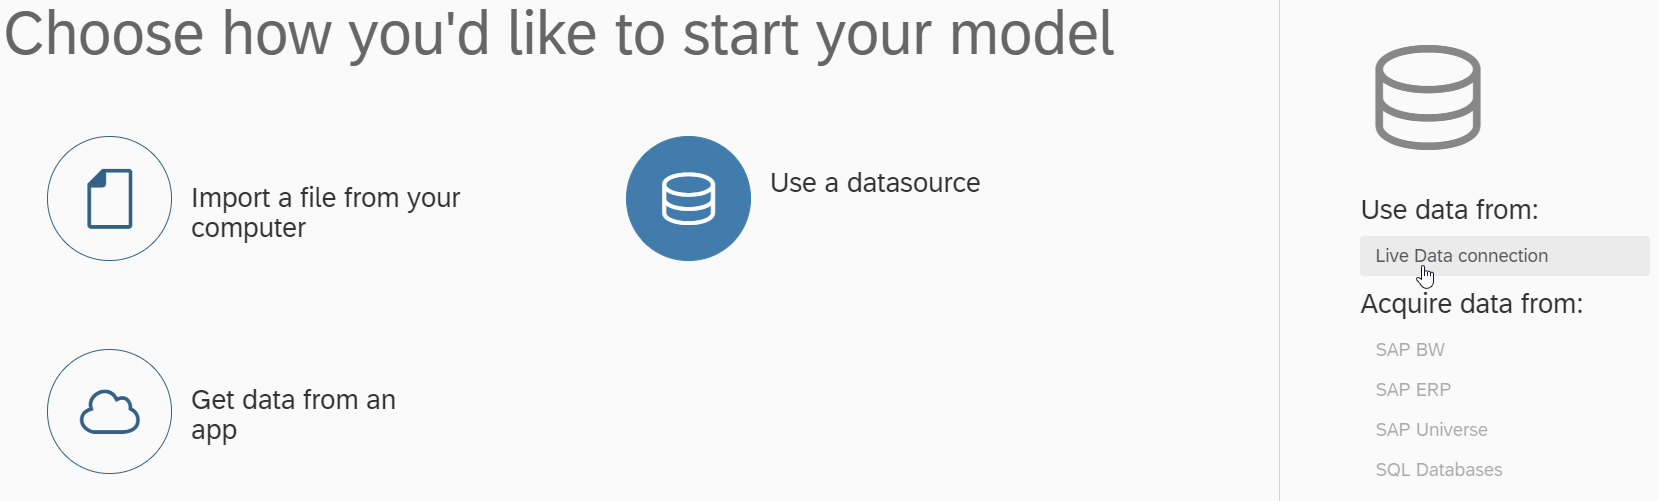
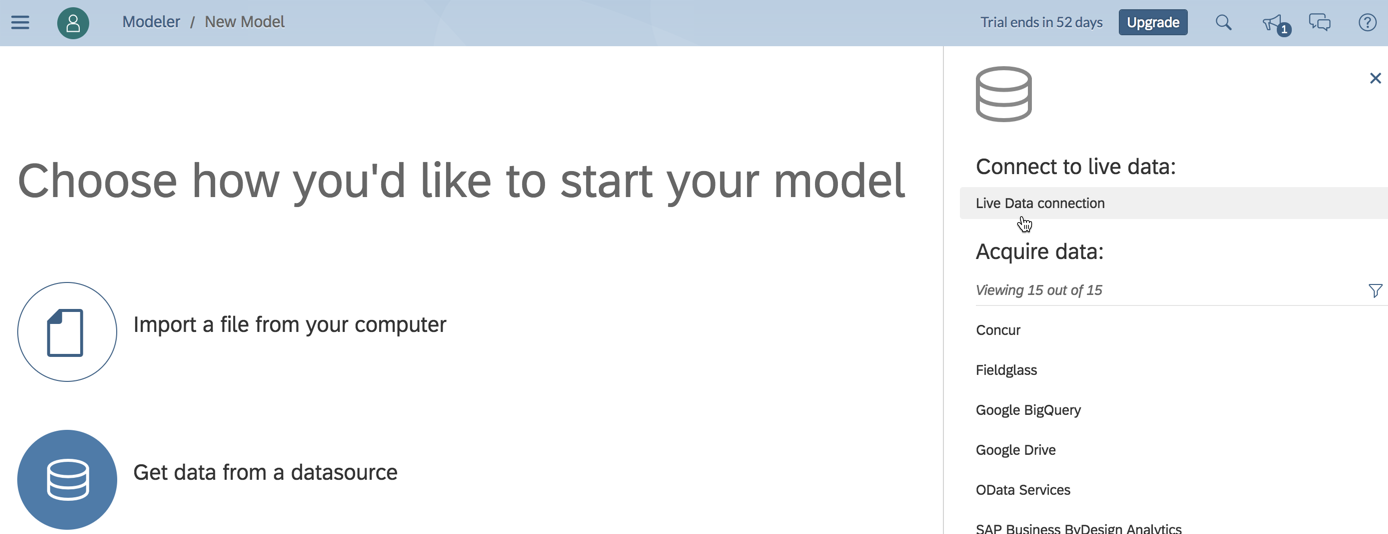
fixed screenshots after SAP Analytics Cloud update

diff --git a/exercise4/README.md b/exercise4/README.md
@@ -67,7 +67,6 @@ In the upcoming Pop-Up you can enter all the necessary information to create the
 Enter the following information in the screen:
 - Name: `cptrial`
 - Description: `Connection to CP Trial Account`
-- Connection Type: `SAP Cloud Platform`
 - SAP Cloud Platform Account: `<enter the technical name of your subaccount here>`
 - Database name: `exercise` (the name of your SAP HANA database in SAP Cloud Platform)
 - Landscape Host: `Europe (Rot) – `**Trial**

diff --git a/exercise5/README.md b/exercise5/README.md
@@ -16,7 +16,7 @@ Via the main menu navigate to *Create > Model*
 
 <img src="img/home-create.png" alt="home-create" width="40%">
 
-To start your model choose *Use a datasource > Live Data connection*
+To start your model choose *Get data from a datasource > Live Data connection*
 
 <img src="img/liveData.png" alt="liveData" width="60%">
 
